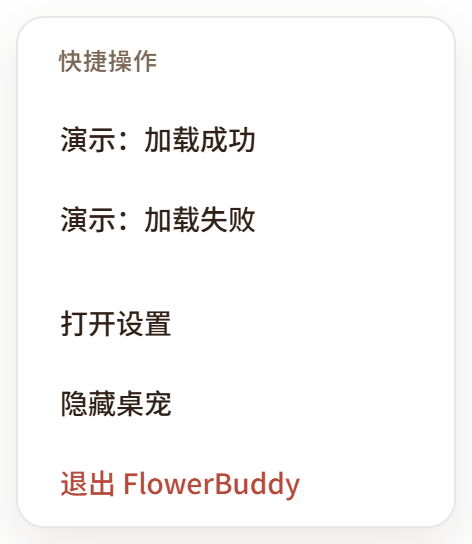
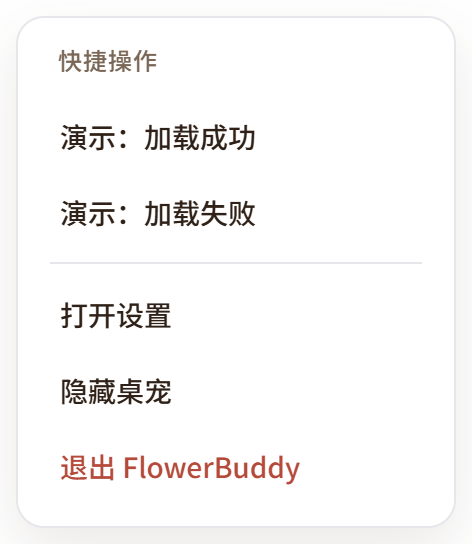
feat: replace default pet artwork and finalize design verification

diff --git a/tests/unit/assets.test.ts b/tests/unit/assets.test.ts
@@ -1,0 +1,39 @@
+import { readFileSync } from 'node:fs'
+import { resolve } from 'node:path'
+import { describe, expect, it } from 'vitest'
+import { readPngInfo } from '../../src/main/storage/pet-assets'
+
+function readAsset(...segments: string[]): Buffer {
+  return readFileSync(resolve('assets', ...segments))
+}
+
+describe('bundled assets', () => {
+  it('ships a valid 64x64 tray icon', () => {
+    expect(readPngInfo(readAsset('tray-icon.png'))).toEqual({ width: 64, height: 64 })
+  })
+
+  it('ships the default pet as a valid PNG with the expected size', () => {
+    const info = readPngInfo(readAsset('default-pet', 'flower.png'))
+    if (!info) {
+      throw new Error('default pet is not a valid PNG')
+    }
+    expect(info.width).toBe(512)
+    expect(info.height).toBeGreaterThan(300)
+    expect(info.height).toBeLessThan(512)
+  })
+
+  it('builds the application icon with every Windows size', () => {
+    const buffer = readAsset('app-icon.ico')
+    expect(buffer.readUInt16LE(0)).toBe(0)
+    expect(buffer.readUInt16LE(2)).toBe(1)
+
+    const count = buffer.readUInt16LE(4)
+    expect(count).toBe(7)
+
+    const dimensions = Array.from({ length: count }, (_, index) => {
+      const value = buffer[6 + index * 16]
+      return value === 0 ? 256 : value
+    })
+    expect(dimensions).toEqual([16, 24, 32, 48, 64, 128, 256])
+  })
+})

diff --git a/src/renderer/src/styles/tokens.css b/src/renderer/src/styles/tokens.css
@@ -13,9 +13,9 @@
  * - "Microsoft YaHei UI" is appended to the font stack so Chinese text renders
  *   correctly on Windows when Inter/Noto Sans SC are not installed.
  * - Pressed surfaces reuse the verified page background colour.
- * - The primary button fill uses --fi-primary with --fi-text-inverse. The page
- *   ships Ant Design's default blue button rules, so the exact built button fill
- *   could not be confirmed from the stylesheet.
+ * - Primary button values were verified against the live .fl-button--solid
+ *   component on the design page (2026-10-17): background #8b5a2b, white text,
+ *   34px height, 10px radius, 500 weight.
  */
 :root {
   color-scheme: light;
@@ -28,6 +28,7 @@
   --color-text: #2f2117;
   --color-text-muted: #7a6756;
   --color-text-inverse: #fffaf5;
+  --color-on-primary: #ffffff;
   --color-border: #e5e7eb;
   --color-border-strong: #d0c0b0;
   --color-primary: #8b5a2b;
@@ -107,6 +108,7 @@
   --ease-standard: cubic-bezier(0.22, 1, 0.36, 1);
 
   /* Controls */
+  --control-height-button: 34px;
   --control-height-sm: 28px;
   --control-height-md: 36px;
   --control-height-lg: 44px;

diff --git a/src/renderer/src/styles/components.css b/src/renderer/src/styles/components.css
@@ -3,7 +3,7 @@
   align-items: center;
   justify-content: center;
   gap: var(--space-2);
-  min-height: var(--control-height-md);
+  min-height: var(--control-height-button);
   padding: 0 var(--space-4);
   border: 1px solid transparent;
   border-radius: var(--radius-sm);
@@ -28,7 +28,7 @@
 .fl-button-primary {
   background: var(--color-primary);
   border-color: var(--color-primary);
-  color: var(--color-text-inverse);
+  color: var(--color-on-primary);
 }
 
 .fl-button-primary:hover:not(:disabled) {

diff --git a/src/renderer/src/styles/menu.css b/src/renderer/src/styles/menu.css
@@ -28,7 +28,6 @@
 
 .menu-item {
   width: 100%;
-  min-height: var(--control-height-md);
   justify-content: flex-start;
   padding: 0 var(--space-3);
   text-align: left;

diff --git a/README.md b/README.md
@@ -51,7 +51,7 @@ npm install
 | `npm test`                                | Vitest 单元测试                                         |
 | `npm run build`                           | 类型检查 + 生产构建到 `out/`                            |
 | `npm run icons`                           | 重新生成应用图标与托盘图标                              |
-| `npm run pets`                            | 重新生成内置默认桌宠图片                                |
+| `npm run pets`                            | 从 `assets/pet-source.webp` 重新生成默认桌宠 PNG        |
 | `npm run assets`                          | 依次生成图标与默认桌宠图片                              |
 | `npm run licenses`                        | 生成 `licenses/THIRD_PARTY_LICENSES.md`                 |
 | `npm run dist:win`                        | 构建并打包 Windows x64 NSIS 安装版与便携版到 `release/` |
@@ -75,7 +75,7 @@ src/
   shared/                # 主进程与渲染进程共享的类型/通道名
 tests/unit/              # Vitest 单元测试
 scripts/                 # 图标、默认形象与许可证生成脚本
-assets/                  # 应用图标、托盘图标与默认桌宠（全部自绘）
+assets/                  # 应用图标、托盘图标、默认桌宠与桌宠源文件
 docs/screenshots/        # 视觉回归截图
 out/                     # 构建输出（不入库）
 release/                 # 安装包输出（不入库）
@@ -95,8 +95,9 @@ release/                 # 安装包输出（不入库）
 - 视觉规范以 [DESIGN_SYSTEM.md](DESIGN_SYSTEM.md) 为准；设计 token 集中定义在 [tokens.css](src/renderer/src/styles/tokens.css)，业务样式不硬编码颜色、间距、圆角或阴影。
 - Token 来源：花墨设计规范 <https://flowersink.com/design/>，核对日期 2026-10-17，直接读取其公开样式中的 `--fi-*` 自定义属性。
 - 已核验并落地：颜色 token、间距标尺（4–52px）、圆角（8/10/14/18px 等）、三档阴影、字体栈与字号/字重/行高、动效时长（0.16/0.24/0.32s）与缓动、控件高度（28/36/44px）、表单默认/悬停/聚焦/禁用状态。
-- 派生值：为适配 Windows 中文显示，在规范字体栈末尾追加了 Microsoft YaHei 回退；主按钮填充使用 `--fi-primary` 与 `--fi-text-inverse`，规范页内置按钮样式来自 Ant Design 默认值，精确填充未能直接核验。
-- 已实测：按钮默认/hover/按下/focus-visible/禁用、下拉框 focus、气泡 success/error、快捷菜单与设置窗口；在 640/780/960px 宽度与 100%/125%/150%/200% 缩放下无横向溢出。
+- 主按钮另按线上 `.fl-button--solid` 组件实测对齐：背景 `#8b5a2b`、白色文字、34px 高、10px 圆角、500 字重。
+- 派生值：为适配 Windows 中文显示，在规范字体栈末尾追加了 Microsoft YaHei 回退。
+- 已实测：按钮默认/hover/按下/focus-visible/禁用、下拉框 focus、气泡 success/error、快捷菜单与设置窗口；模拟 `prefers-reduced-motion: reduce` 后弹跳动画数量为 0 且过渡降至 0.01ms；托盘图标为有效的 64×64 PNG；在 640/780/960px 宽度与 100%/125%/150%/200% 缩放下无横向溢出。
 - 截图（200% 缩放下采集，桌宠/菜单/气泡保留透明通道）：[桌宠](docs/screenshots/pet.png)、[快捷菜单](docs/screenshots/quick-menu.png)、[成功气泡](docs/screenshots/bubble-success.png)、[失败气泡](docs/screenshots/bubble-error.png)、[设置窗口](docs/screenshots/settings.png)。
 
 ## 安全设计
